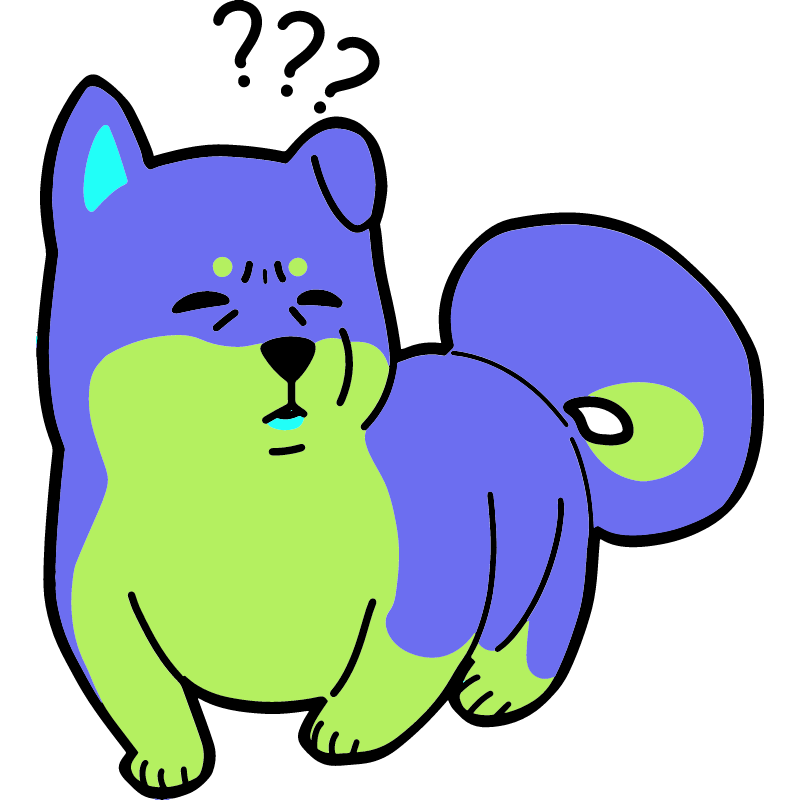
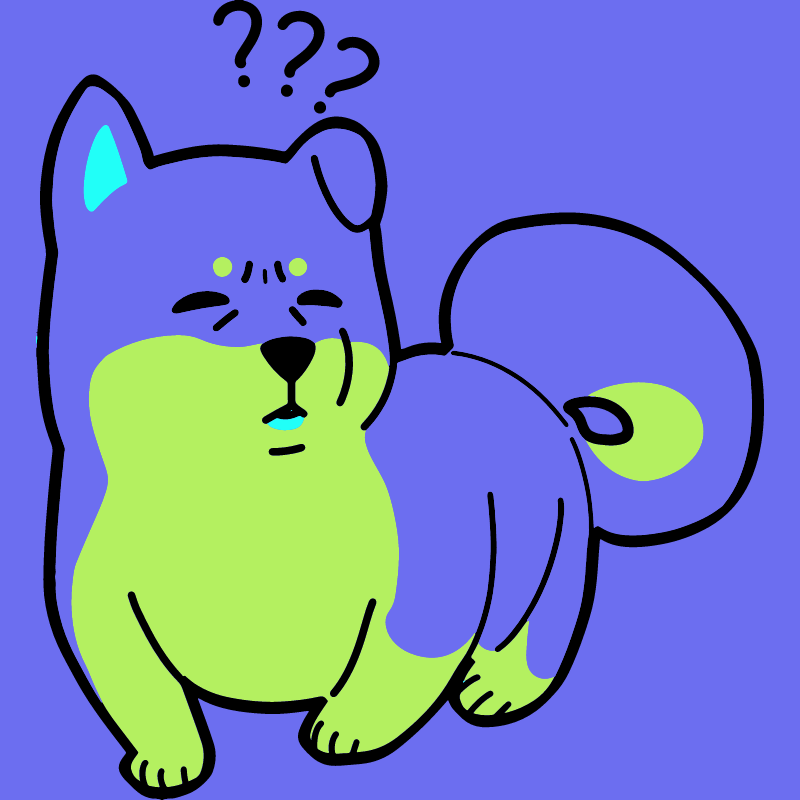
Changed the background color and centered the text

diff --git a/styles.css b/styles.css
@@ -115,6 +115,7 @@ section{
     font-size: 50px;
 }
 .questions{
+    background-color: #6C6EF0;
     display: flex;
     flex-direction: row-reverse;
     gap: 48px;
@@ -127,8 +128,11 @@ section{
     padding: 16px;
     border: 5px solid #1F1F1F;
     flex-direction: column;
-    box-shadow: -10px 10px #6C6EF0;
+    box-shadow: -10px 10px #292929;
     width: 700px;
+}
+.questions-container .big-text{
+    text-align: center;
 }
 .questions-container form{
     display: flex;
